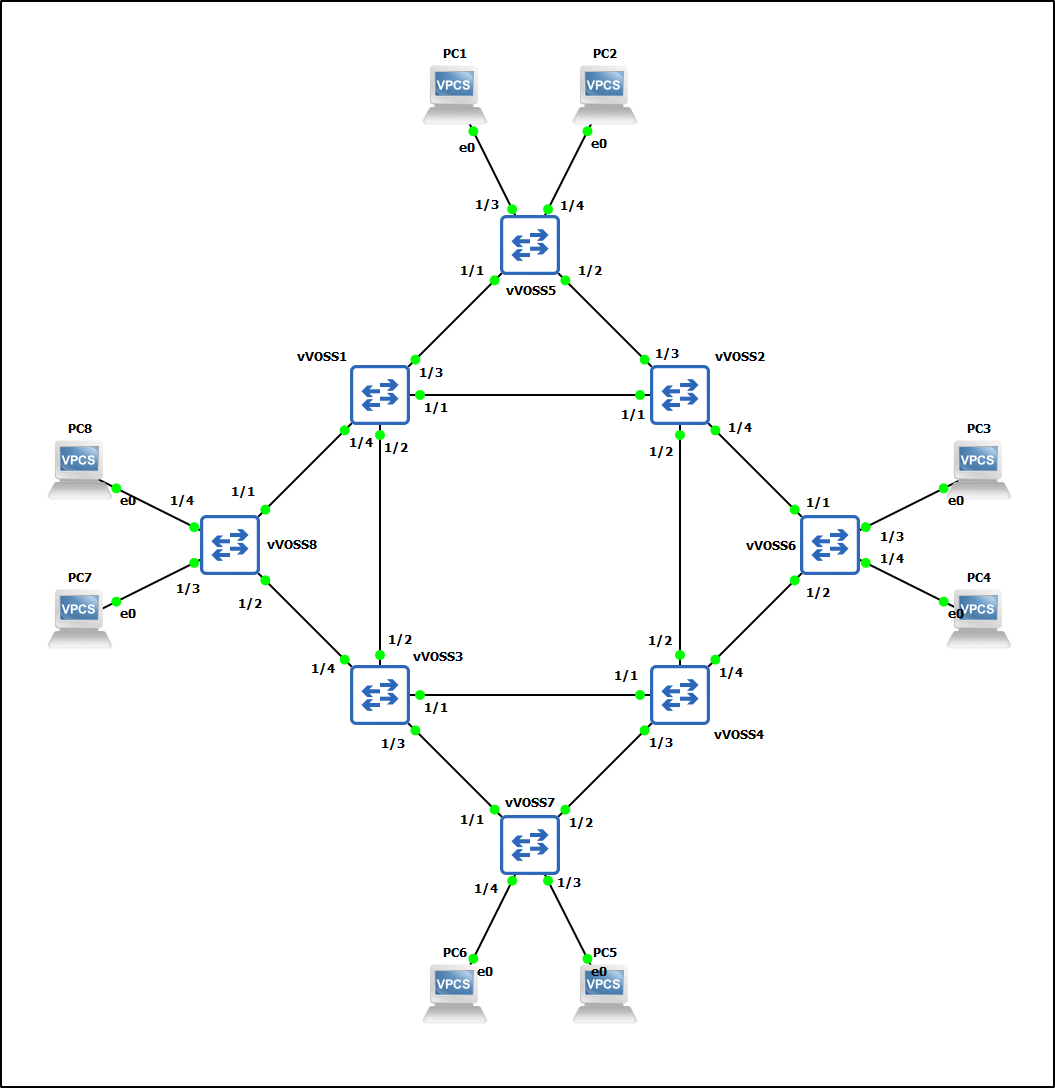
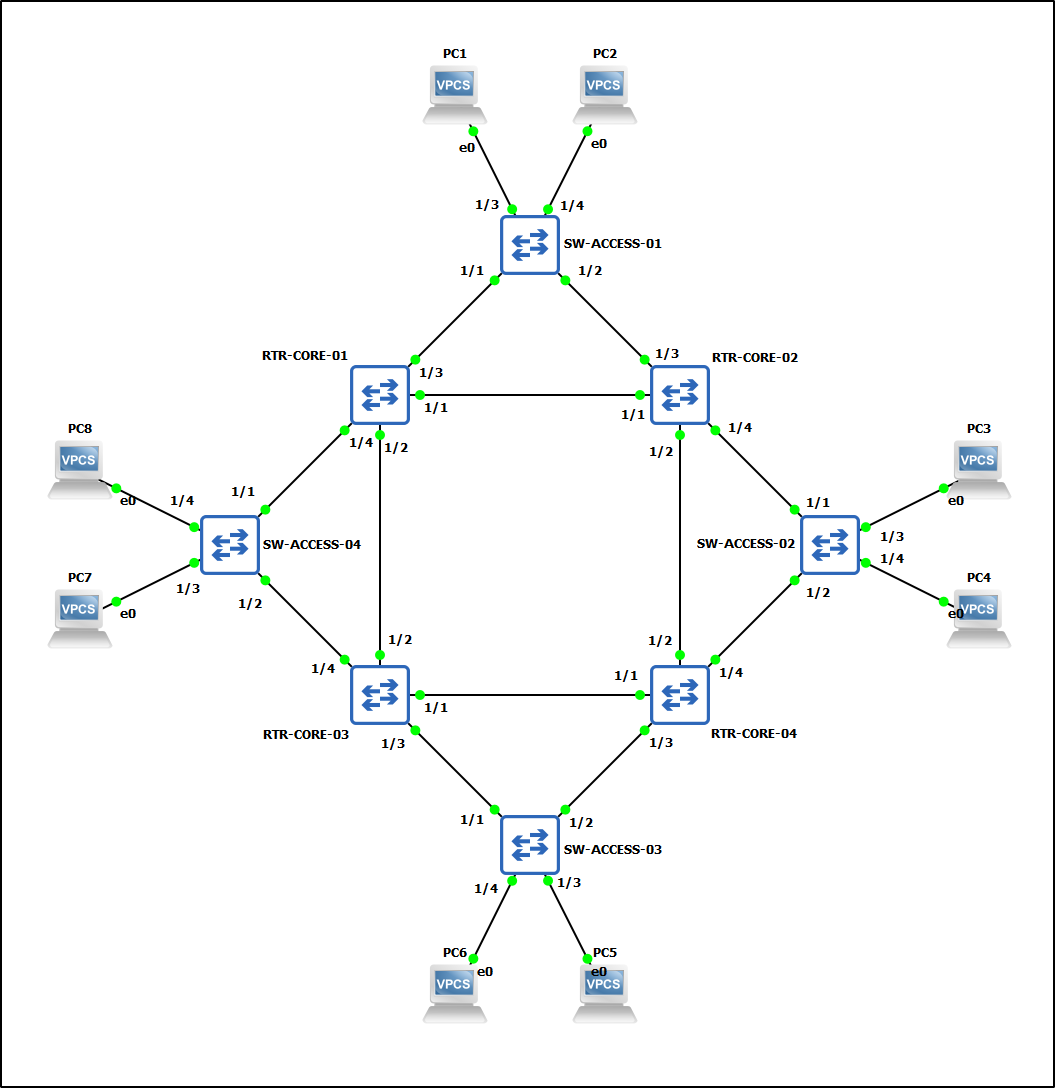
update #20210430-1102

diff --git a/README.md b/README.md
@@ -24,16 +24,16 @@ This guide will cover the following topics:
 
 ### VSP Configuration
 
-| Name   | MGMT Ip       | Area    |   System ID    | Instance | Nick-Name | B-VLAN    | Primary | File                                  |
-| :----- | :-----------: | :-----: | :------------: | :------: | :-------: | :-------: | :-----: | :-----------------------------------: |
-| vVOSS1 | 192.168.0.201 | 49.0001 | 020c.0750.0001 | 1        | c.75.01   | 4051,4052 | 4051    | [config.cfg](config/LAB01/vVOSS1.cfg) |
-| vVOSS2 | 192.168.0.202 | 49.0001 | 020c.0750.0002 | 1        | c.75.02   | 4051,4052 | 4051    | [config.cfg](config/LAB01/vVOSS2.cfg) |
-| vVOSS3 | 192.168.0.203 | 49.0001 | 020c.0750.0003 | 1        | c.75.03   | 4051,4052 | 4051    | [config.cfg](config/LAB01/vVOSS3.cfg) |
-| vVOSS4 | 192.168.0.204 | 49.0001 | 020c.0750.0004 | 1        | c.75.04   | 4051,4052 | 4051    | [config.cfg](config/LAB01/vVOSS4.cfg) |
-| vVOSS5 | 192.168.0.205 | 49.0001 | 020a.0750.0001 | 1        | a.75.01   | 4051,4052 | 4051    | [config.cfg](config/LAB01/vVOSS5.cfg) |
-| vVOSS6 | 192.168.0.206 | 49.0001 | 020a.0750.0002 | 1        | a.75.01   | 4051,4052 | 4051    | [config.cfg](config/LAB01/vVOSS6.cfg) |
-| vVOSS7 | 192.168.0.207 | 49.0001 | 020a.0750.0003 | 1        | a.75.01   | 4051,4052 | 4051    | [config.cfg](config/LAB01/vVOSS7.cfg) |
-| vVOSS8 | 192.168.0.208 | 49.0001 | 020a.0750.0004 | 1        | a.75.01   | 4051,4052 | 4051    | [config.cfg](config/LAB01/vVOSS8.cfg) |
+| Name         | MGMT Ip       | Area    |   System ID    | Instance | Nick-Name | B-VLAN    | Primary | File                                  |
+| :----------- | :-----------: | :-----: | :------------: | :------: | :-------: | :-------: | :-----: | :-----------------------------------: |
+| RTR-CORE-01  | 192.168.0.201 | 49.0001 | 020c.0750.0001 | 1        | c.75.01   | 4051,4052 | 4051    | [config.cfg](config/LAB01/vVOSS1.cfg) |
+| RTR-CORE-02  | 192.168.0.202 | 49.0001 | 020c.0750.0002 | 1        | c.75.02   | 4051,4052 | 4051    | [config.cfg](config/LAB01/vVOSS2.cfg) |
+| RTR-CORE-03  | 192.168.0.203 | 49.0001 | 020c.0750.0003 | 1        | c.75.03   | 4051,4052 | 4051    | [config.cfg](config/LAB01/vVOSS3.cfg) |
+| RTR-CORE-04  | 192.168.0.204 | 49.0001 | 020c.0750.0004 | 1        | c.75.04   | 4051,4052 | 4051    | [config.cfg](config/LAB01/vVOSS4.cfg) |
+| SW-ACCESS-01 | 192.168.0.205 | 49.0001 | 020a.0750.0001 | 1        | a.75.01   | 4051,4052 | 4051    | [config.cfg](config/LAB01/vVOSS5.cfg) |
+| SW-ACCESS-02 | 192.168.0.206 | 49.0001 | 020a.0750.0002 | 1        | a.75.01   | 4051,4052 | 4051    | [config.cfg](config/LAB01/vVOSS6.cfg) |
+| SW-ACCESS-03 | 192.168.0.207 | 49.0001 | 020a.0750.0003 | 1        | a.75.01   | 4051,4052 | 4051    | [config.cfg](config/LAB01/vVOSS7.cfg) |
+| SW-ACCESS-04 | 192.168.0.208 | 49.0001 | 020a.0750.0004 | 1        | a.75.01   | 4051,4052 | 4051    | [config.cfg](config/LAB01/vVOSS8.cfg) |
 
 ### Client configuration
 | Client name | VLAN ID | IP Address |
